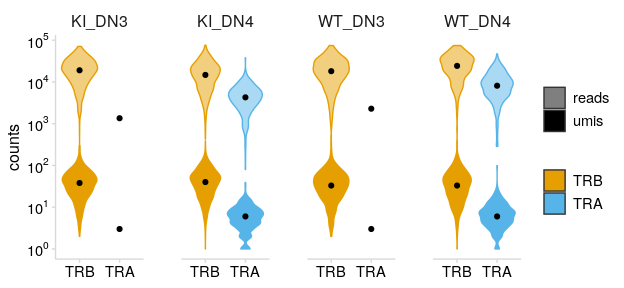
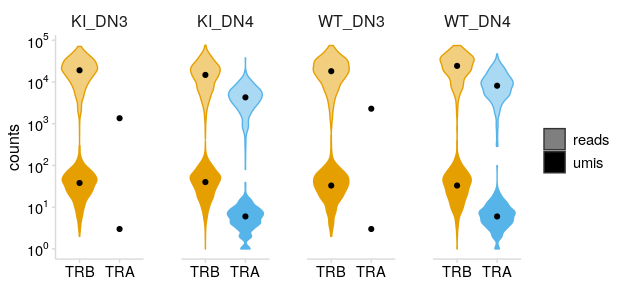
fix for plot_reads theme

Changed region(s): [[0.8526, 0.2812, 0.9744, 0.75]]

diff --git a/README.md b/README.md
@@ -185,7 +185,8 @@ plot_reads(
   chain_col    = "chains",      # Column containing chains for each cell
   cluster_col  = "orig.ident",  # Column containing labels to group by
   plot_colors  = ito_cols       # Plot colors
-)
+) +
+  guides(fill = FALSE, color = FALSE)
 ```
 
 ![](man/figures/README-read_support-1.png)<!-- -->
